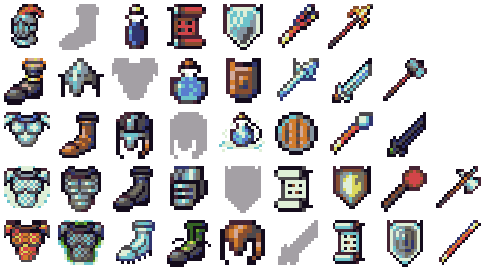
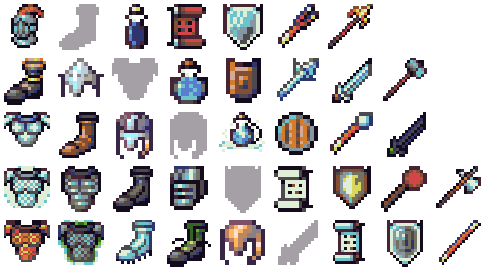
Ch04 Added inventory button Configured button for opening and closing inventory Adjusted light levels of some sprites so that they show up better in the inventory

Changed region(s): [[0.4321, 0.8, 0.5556, 0.9778], [0.216, 0.4148, 0.3395, 0.5926], [0.1235, 0.2074, 0.216, 0.3556]]

diff --git a/core/src/com/packtpub/libgdx/bludbourne/UI/StatusUI.kt b/core/src/com/packtpub/libgdx/bludbourne/UI/StatusUI.kt
@@ -9,6 +9,8 @@ class StatusUI(skin: Skin, textureAtlas: TextureAtlas) : Window("stats", skin) {
     private val hpBar: Image
     private val mpBar: Image
     private val xpBar: Image
+    val inventoryButton: ImageButton
+
 
     //Attributes
     private val levelVal = 1
@@ -44,6 +46,10 @@ class StatusUI(skin: Skin, textureAtlas: TextureAtlas) : Window("stats", skin) {
         val goldLabel = Label(" gp:", skin)
         val goldVal = Label(goldVal.toString(), skin)
 
+        //buttons
+        inventoryButton = ImageButton(skin, "inventory-button")
+        inventoryButton.imageCell.size(32f, 32f)
+
         //Align images
         hpBar.setPosition(3f, 6f)
         mpBar.setPosition(3f, 6f)
@@ -63,6 +69,11 @@ class StatusUI(skin: Skin, textureAtlas: TextureAtlas) : Window("stats", skin) {
         //account for the title padding
         this.pad(this.padTop + 10, 10f, 10f, 10f)
 
+        this.add()
+        this.add()
+        this.add(inventoryButton).align(Align.right)
+        this.row()
+
         this.add(group).size(bar.width, bar.height)
         this.add(hpLabel)
         this.add(hp).align(Align.left)
@@ -78,8 +89,9 @@ class StatusUI(skin: Skin, textureAtlas: TextureAtlas) : Window("stats", skin) {
         this.add(xp).align(Align.left)
         this.row()
 
-        this.add(levelLabel)
+        this.add(levelLabel).align(Align.left)
         this.add(levelVal).align(Align.left)
+        this.row()
         this.add(goldLabel)
         this.add(goldVal).align(Align.left)
 

diff --git a/core/src/com/packtpub/libgdx/bludbourne/UI/PlayerHUD.kt b/core/src/com/packtpub/libgdx/bludbourne/UI/PlayerHUD.kt
@@ -4,8 +4,10 @@ import com.badlogic.gdx.Gdx
 import com.badlogic.gdx.Screen
 import com.badlogic.gdx.graphics.Camera
 import com.badlogic.gdx.graphics.g2d.TextureAtlas
+import com.badlogic.gdx.scenes.scene2d.InputEvent
 import com.badlogic.gdx.scenes.scene2d.Stage
 import com.badlogic.gdx.scenes.scene2d.ui.Skin
+import com.badlogic.gdx.scenes.scene2d.utils.ClickListener
 import com.badlogic.gdx.utils.Array
 import com.badlogic.gdx.utils.viewport.ScreenViewport
 import com.badlogic.gdx.utils.viewport.Viewport
@@ -34,9 +36,11 @@ class PlayerHUD(camera: Camera) : Screen {
 //        stage.setDebugAll(true)
 
         statusUI = StatusUI(statusUISkin, statusUITextureAtlas)
+        statusUI.isVisible = true
         statusUI.setPosition(0f, 0f)
 
         inventoryUI = InventoryUI(statusUISkin, statusUITextureAtlas)
+        inventoryUI.isVisible = false
         inventoryUI.isMovable = false
 
 
@@ -51,6 +55,13 @@ class PlayerHUD(camera: Camera) : Screen {
         for (actor in actors) {
             stage.addActor(actor)
         }
+
+        val inventoryButton = statusUI.inventoryButton
+        inventoryButton.addListener(object : ClickListener() {
+            override fun clicked(event: InputEvent?, x: Float, y: Float) {
+                inventoryUI.isVisible = !inventoryUI.isVisible
+            }
+        })
     }
 
     fun populateInventory(itemTypeIDs: Array<InventoryItem.ItemTypeID>) {

diff --git a/core/src/com/packtpub/libgdx/bludbourne/BludBourne.kt b/core/src/com/packtpub/libgdx/bludbourne/BludBourne.kt
@@ -5,6 +5,8 @@ import com.packtpub.libgdx.bludbourne.screens.MainGameScreen
 
 class BludBourne : Game() {
 
+    private lateinit var mainGameScreen: MainGameScreen
+
     override fun create() {
         mainGameScreen = MainGameScreen()
         setScreen(mainGameScreen)
@@ -12,10 +14,6 @@ class BludBourne : Game() {
 
     override fun dispose() {
         mainGameScreen.dispose()
-    }
-
-    companion object {
-        lateinit var mainGameScreen : MainGameScreen
     }
 
 }
